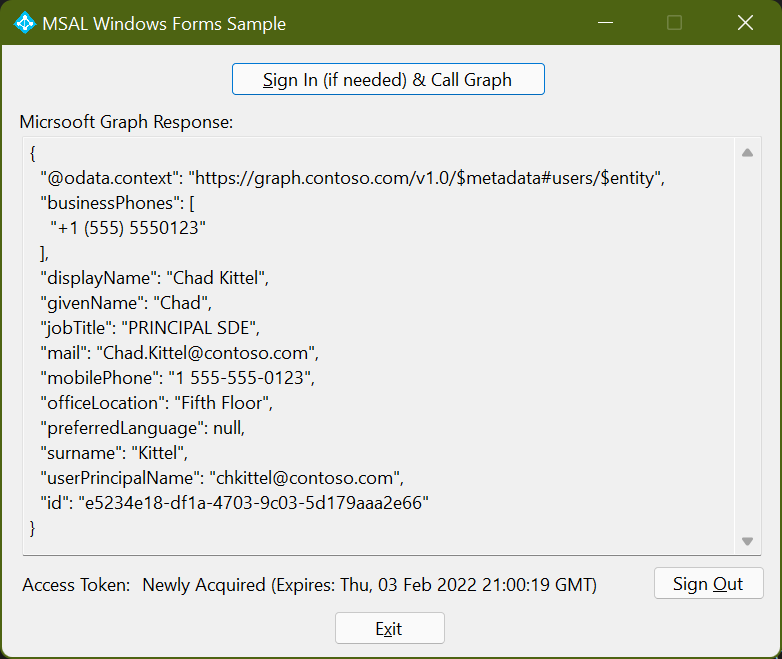
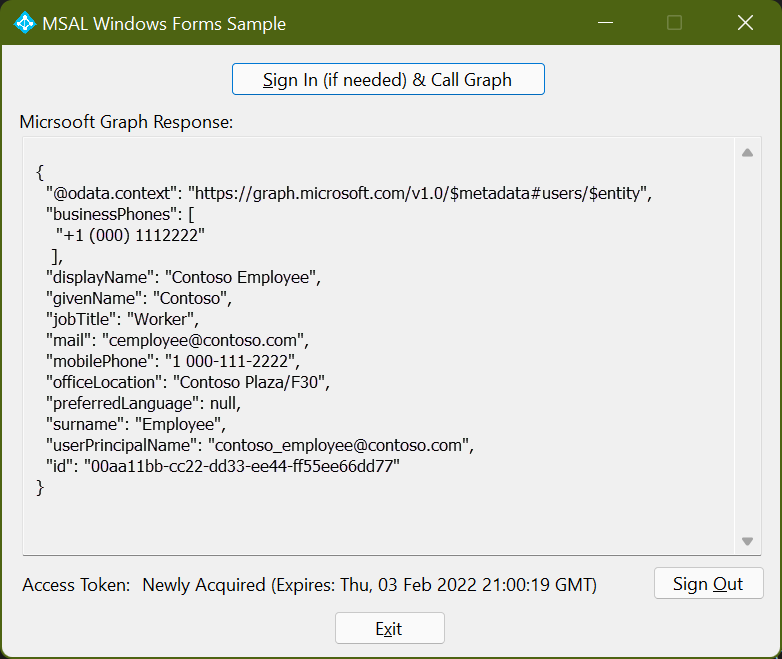
more GUID changes and iamge fixes

Changed region(s): [[0.0307, 0.3945, 0.5831, 0.7891], [0.0307, 0.2428, 0.8286, 0.3642], [0.0307, 0.3642, 0.0614, 0.3945]]

diff --git a/web-api-obo-client/README.md b/web-api-obo-client/README.md
@@ -26,9 +26,9 @@ This ASP.NET Core minimal web API issues a call to a protected web API (Microsof
 $ curl https://localhost:5001/api/application
 {
    "@odata.context": "https://graph.microsoft.com/v1.0/$metadata#applications/$entity",
-   "id": "537a552c-58b7-4468-abdf-a7cbfa000dde",
+   "id": "00aa11bb-cc22-dd33-ee44-ff55ee66dd77",
    "deletedDateTime": null,
-   "appId": "5b2c581d-e3ac-415e-a770-7f16254fdbf7",
+   "appId": "00001111-aaaa-2222-bbbb-3333cccc4444",
    "applicationTemplateId": null,
    "disabledByMicrosoftStatus": null,
    "createdDateTime": "2022-02-23T21:35:20Z",
@@ -110,9 +110,9 @@ If everything worked, you should receive a response from the downstream web API 
 $ curl https://localhost:5001/api/application -ki
 {
    "@odata.context": "https://graph.microsoft.com/v1.0/$metadata#applications/$entity",
-   "id": "537a552c-58b7-4468-abdf-a7cbfa000dde",
+   "id": "00aa11bb-cc22-dd33-ee44-ff55ee66dd77",
    "deletedDateTime": null,
-   "appId": "5b2c581d-e3ac-415e-a770-7f16254fdbf7",
+   "appId": "00001111-aaaa-2222-bbbb-3333cccc4444",
    "applicationTemplateId": null,
    "disabledByMicrosoftStatus": null,
    "createdDateTime": "2022-02-23T21:35:20Z",

diff --git a/web-app-blazor-server/README.md b/web-app-blazor-server/README.md
@@ -56,8 +56,8 @@ Next, open the _Api.csproj_ project under the the sign-in-blazorserver folder in
 In _appsettings.json_, update each variable with values from the app registration you created earlier.
 
 ```json
-"TenantId": "[Enter 'common', or 'organizations' or the Tenant ID (Obtained from the Azure portal. Select 'Endpoints' from the 'App registrations' blade and use the GUID in any of the URLs), e.g. da41245a5-11b3-996c-00a8-4d99re19f292]",
-"ClientId": "[Enter the Client Id (Application ID obtained from the Azure portal), e.g. ba74781c2-53c2-442a-97c2-3d60re42f403]",
+"TenantId": "[Enter 'common', or 'organizations' or the Tenant ID obtained from the Azure portal]",
+"ClientId": "[Enter the Client Id (Application ID) obtained from the Azure portal]",
 "ClientSecret": "[Copy the client secret added to the app from the Azure portal]",
 ```
 

diff --git a/web-api/README.md b/web-api/README.md
@@ -61,8 +61,8 @@ In the _./appsettings.json_ file, replace these `{PLACEHOLDER}` values with the 
 For example:
 
 ```json
-"ClientId": "00000000-11aa-bbbb-2222-33333ddddddd",
-"TenantId": "00000000-11aa-bbbb-2222-33333ddddddd",
+"ClientId": "00001111-aaaa-2222-bbbb-3333cccc4444",
+"TenantId": "dddd5555-eeee-6666-ffff-00001111aaaa",
 ```
 
 ## Run the application

diff --git a/web-api-obo-user/README.md b/web-api-obo-user/README.md
@@ -35,7 +35,7 @@ $ curl https://localhost:5001/api/me -H "Authorization: Bearer {valid-access-tok
   "officeLocation": null,
   "preferredLanguage": null,
   "surname": null,
-  "id": "cff40dac-17ea-4183-9caf-65f2ee90c562"
+  "id": "00aa11bb-cc22-dd33-ee44-ff55ee66dd77"
 }
 ```
 
